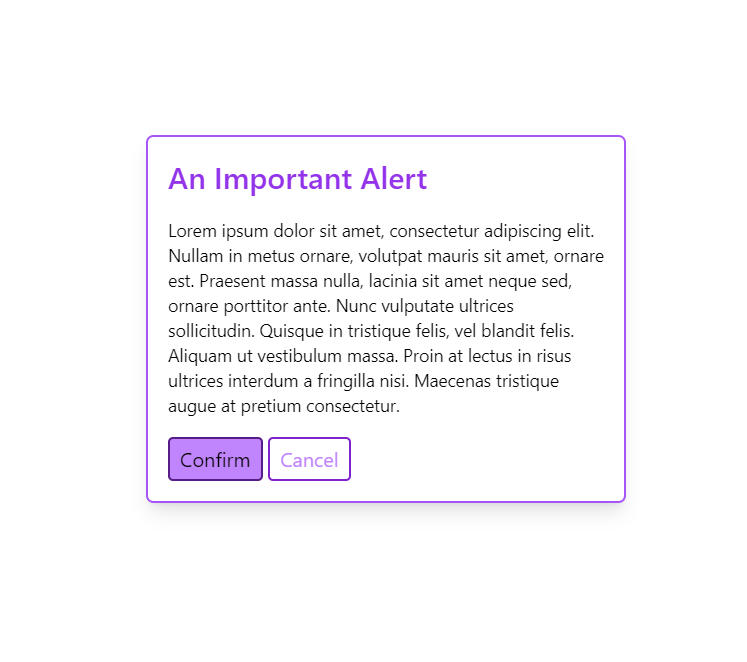
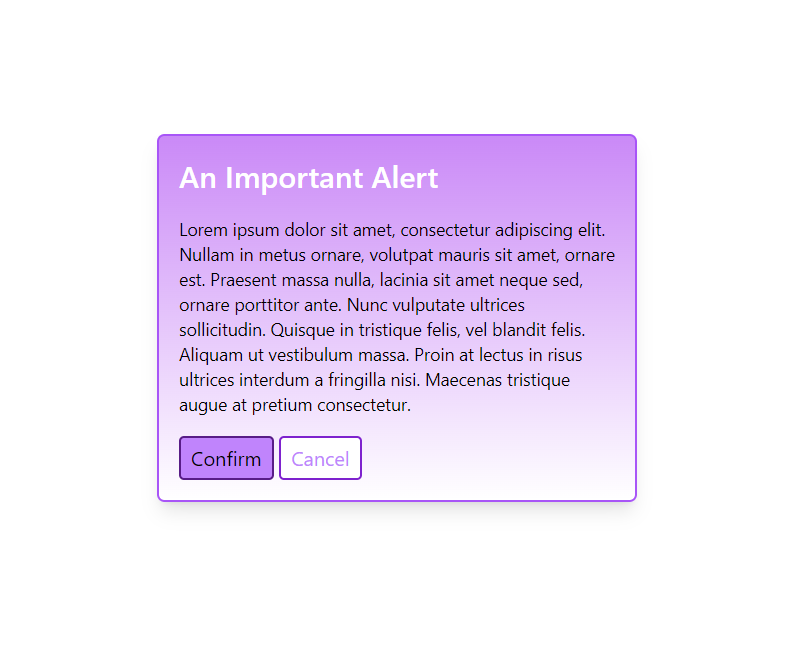
feature: add bg-gradient

Changed region(s): [[0.1847, 0.1846, 0.8313, 0.7692]]

diff --git a/alert-box/index.html b/alert-box/index.html
@@ -1,6 +1,6 @@
 <div class="flex min-h-screen items-center justify-center">
   <div
-    class="mx-auto w-96 rounded-md border-2 border-purple-500 bg-white p-4 shadow-lg"
+    class="mx-auto w-96 rounded-md border-2 border-purple-500 bg-gradient-to-b from-honey-flower-400 p-4 shadow-lg"
   >
     <h1 class="mb-4 text-2xl font-semibold text-purple-600">
       An Important Alert
